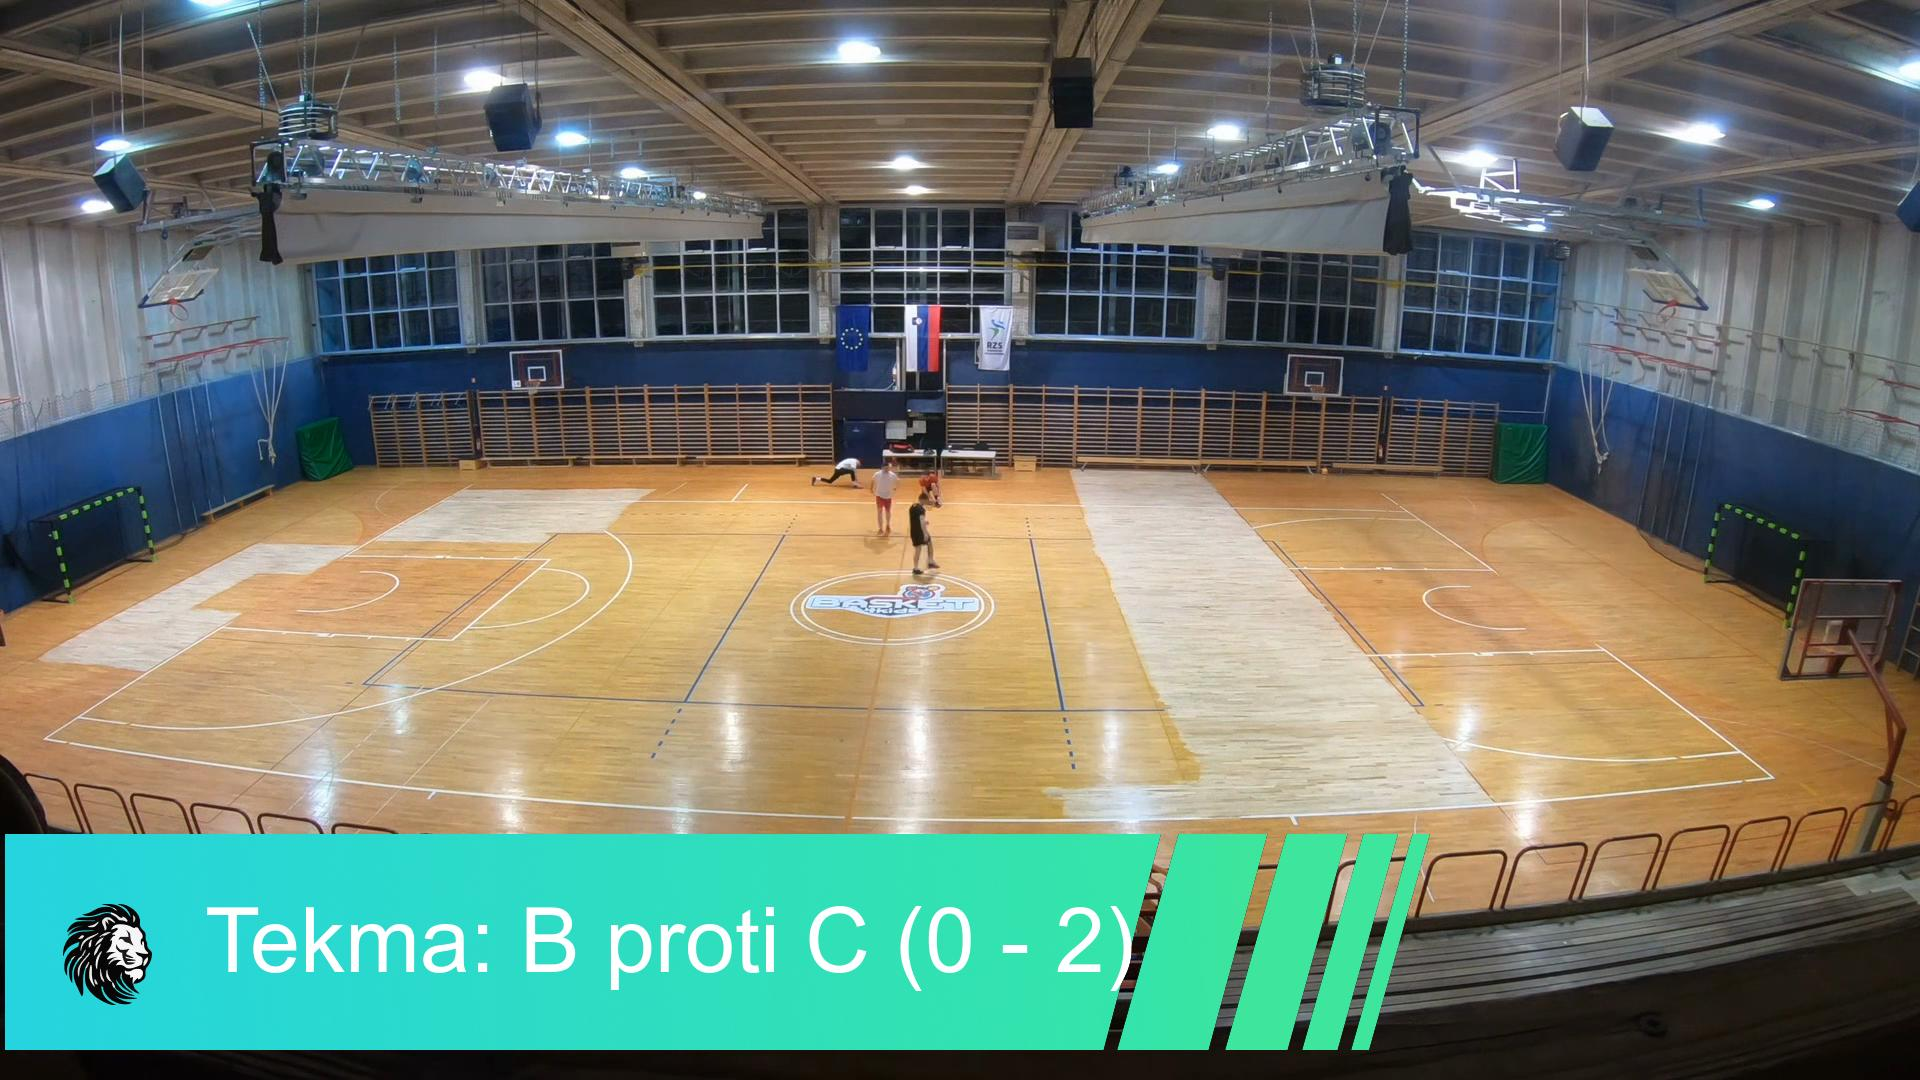
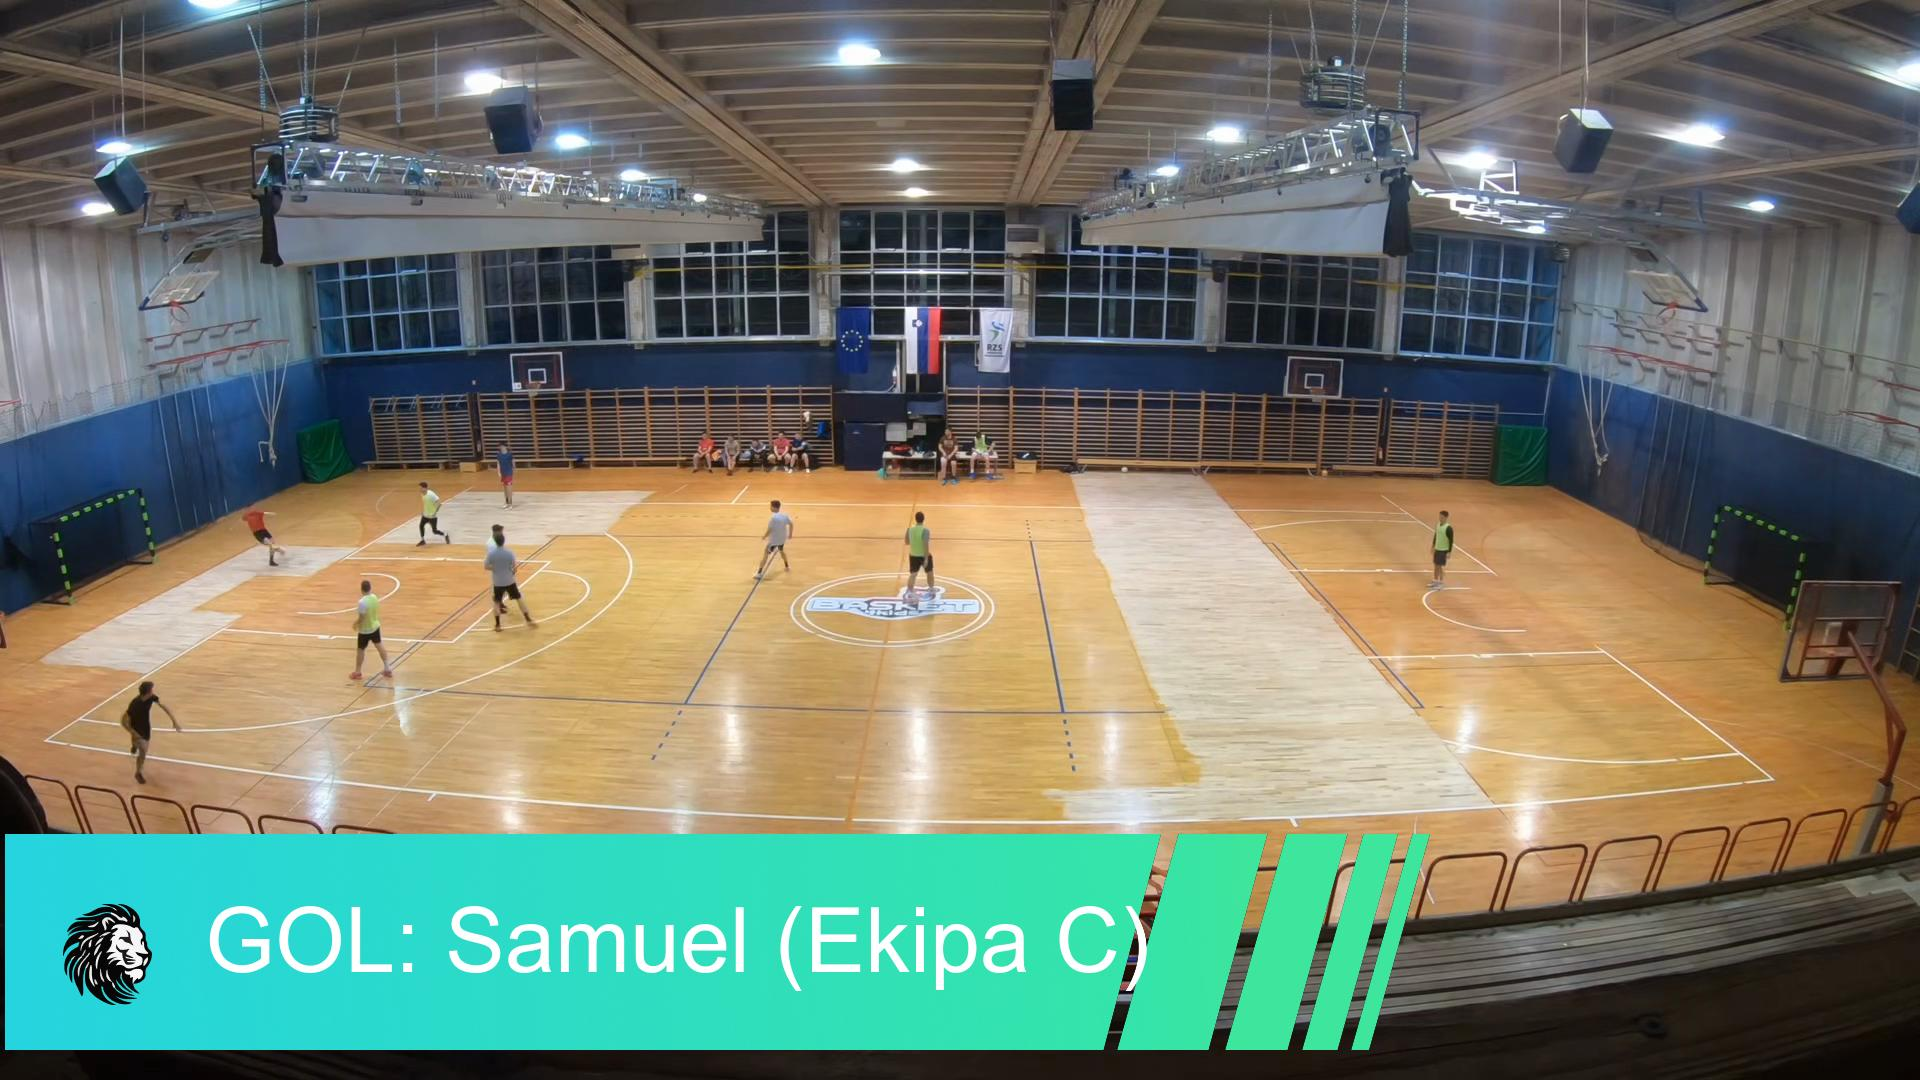
started working on teamsheet

diff --git a/app/main.py b/app/main.py
@@ -13,10 +13,65 @@ from datetime import datetime
 from utils.getMatchStats import calculate_match_scores,get_top_players
 
 
+
+
+def create_teamsheet(table_name: str, data, file_path: str):
+    # Font settings (adjust the path and size as needed)
+    try:
+        # Regular font for table content
+        font_regular = ImageFont.truetype("arial.ttf", 45)
+        font_regular = ImageFont.truetype("arial.ttf", 45)
+        # Larger font for the table name
+        font_large = ImageFont.truetype("arial.ttf", 96)  # Larger font size for the table name
+    except IOError:
+        # Fallback to default font if specific font file is not found
+        font_regular = ImageFont.load_default(55)
+        font_medium = ImageFont.load_default(70)
+        font_large = ImageFont.load_default(120)
+    
+    # Enhanced layout settings
+    image_width = 1600
+    row_height = 130  # Increased row height for better readability
+    header_height = 180  # Increased header height for emphasis
+    column_padding = 70  # Padding for columns
+    image_height = header_height + row_height * (len(data) + 1)  # +1 for the header row
+    
+    # Create an image with white background
+    image = Image.new('RGB', (image_width, image_height), 'white')
+    draw = ImageDraw.Draw(image)
+    
+    # Draw table header
+    draw.text((10, 10), table_name, fill="black", font=font_large)
+    # Draw column titles
+    # draw.text((10, header_height - 25), "Mesto", fill="black", font=font_regular)
+    draw.text((60, header_height), "Ime", fill="black", font=font_medium)
+    
+    # Draw horizontal line after the header
+    draw.line((0, header_height, image_width, header_height), fill="black", width=4)
+    
+    # Draw each top player row
+    for i, player in enumerate(data, start=1):
+        y_position = header_height + row_height * i
+        # Draw horizontal line after each row
+        draw.line((0, y_position, image_width, y_position), fill="gray", width=1)
+        # Rank
+        draw.text((10, y_position + 5), str(i), fill="black", font=font_regular)
+        # Player Name
+        draw.text((60, y_position + 5), player.name, fill="black", font=font_regular)
+        # Score/Count
+
+    
+    # Save the image
+    image.save(f"app/assets/{table_name}-{file_path}.png")
+
+
+
+
 def create_table_image(table_name: str, data: List[TopPlayer], file_path: str):
     # Font settings (adjust the path and size as needed)
     try:
         # Regular font for table content
+        font_regular = ImageFont.truetype("arial.ttf", 45)
         font_regular = ImageFont.truetype("arial.ttf", 45)
         # Larger font for the table name
         font_large = ImageFont.truetype("arial.ttf", 96)  # Larger font size for the table name
@@ -144,7 +199,7 @@ def add_premier_league_style_banner(clip, text):
     # Set the duration for the final clip
     return final_clip.set_duration(clip.duration)
 
-def make_highlights_reel(source_file_name,highlights:List[FootballEvent],scores):
+def make_highlights_reel(top_scorer_name,top_opportunities,source_file_name,highlights:List[FootballEvent],scores,highlight_type):
     # Load your video
     video = VideoFileClip(f"app/source/{source_file_name}.mp4")
 
@@ -160,10 +215,10 @@ def make_highlights_reel(source_file_name,highlights:List[FootballEvent],scores)
     clips = []
 
     intro_clip = video.subclip(20, 30)
-    clip_top_scorers = add_image_to_clip(intro_clip, f"Naj strelec-{source_file_name}")
+    clip_top_scorers = add_image_to_clip(intro_clip, f"{top_scorer_name}-{source_file_name}")
 
     intro_second_clip = video.subclip(40, 50)
-    clip_top_opps = add_image_to_clip(intro_second_clip, f"Največ priložnosti-{source_file_name}")
+    clip_top_opps = add_image_to_clip(intro_second_clip, f"{top_opportunities}-{source_file_name}")
     
     clips.append(clip_top_scorers)
     clips.append(clip_top_opps)
@@ -171,6 +226,9 @@ def make_highlights_reel(source_file_name,highlights:List[FootballEvent],scores)
     Image.fromarray(frame).save("preview.jpg")
 
     for index, highlight in enumerate(highlights):
+        if highlight_type == "goals":
+            if highlight["type"] == "Priložnost":
+                continue
         text_commentary = highlight.get("commentary")
         timestamp = highlight['timestamp']
         event_type = highlight["type"]
@@ -188,8 +246,8 @@ def make_highlights_reel(source_file_name,highlights:List[FootballEvent],scores)
         clip = video.subclip(start, end)
 
         if event_type == "Match Start":
-            match,teamOneGoals,teamTwoGoals = list(filter(lambda x:x["match"]==game,scores))[0].values()
-            overlay_text = f"Tekma: {player_name} proti {team} ({teamOneGoals} - {teamTwoGoals})"
+            game,teamOneGoals,teamTwoGoals = list(filter(lambda x:x["game"]==game,scores))[0].values()
+            overlay_text = f"Tekma: {player_name} proti {team} ({teamOneGoals}:{teamTwoGoals})"
         else:
             overlay_text = f"{event_type}: {player_name} (Ekipa {team})"
 
@@ -210,26 +268,26 @@ def make_highlights_reel(source_file_name,highlights:List[FootballEvent],scores)
         final_clips.append(clip.crossfadein(3))
     final_video = concatenate_videoclips(final_clips, padding=-custom_padding, method="chain")
 
-    final_video_duration = final_video.duration
+    # final_video_duration = final_video.duration
 
-    background_audio = AudioFileClip("app/assets/stadion-sound.mp3")
-    loop_count = int(final_video_duration / background_audio.duration) + 1
+    # background_audio = AudioFileClip("app/assets/stadion-sound.mp3")
+    # loop_count = int(final_video_duration / background_audio.duration) + 1
     
-    background_audio = background_audio.fx(volumex, 0.02)
+    # background_audio = background_audio.fx(volumex, 0.02)
     
-    extended_background_audio = concatenate_audioclips([background_audio] * loop_count)
-    extended_background_audio = extended_background_audio.set_duration(final_video_duration)
+    # extended_background_audio = concatenate_audioclips([background_audio] * loop_count)
+    # extended_background_audio = extended_background_audio.set_duration(final_video_duration)
 
-    final_audio = CompositeAudioClip([final_video.audio, extended_background_audio])
+    final_audio = CompositeAudioClip([final_video.audio]) #extended_background_audio
     final_video = final_video.set_audio(final_audio)
 
     # Write the result to a file
     final_video.write_videofile(
-    f"app/highlights/{source_file_name}-{datetime.now().strftime('%H-%M')}.mp4", 
+    f"app/highlights/{source_file_name}-{highlight_type}-{datetime.now().strftime('%H-%M')}.mp4", 
         codec="libx265", 
         fps=24, 
         ffmpeg_params=['-vcodec', 'hevc_videotoolbox', '-tag:v', 'hvc1', '-quality', '54', 
-                    '-acodec', 'aac', '-b:a', '128k']
+                    '-acodec', 'aac', '-b:a', '64k']
     )
 
 def prepare_timestamp(file_path):
@@ -268,7 +326,11 @@ if __name__ == "__main__":
     timestamps = prepare_timestamp(file_path)
     scores = calculate_match_scores(timestamps)
     top_goal_scorers, top_opportunity_creators = get_top_players(timestamps)
-    create_table_image("Streleci",top_goal_scorers,file_path)
-    create_table_image("Priloznosti",top_opportunity_creators,file_path)
-    make_highlights_reel(file_path,timestamps,scores)
+    top_scorer_name = "Strelci"
+    top_opportunities = "Priloznosti"
+    create_table_image(top_scorer_name,top_goal_scorers,file_path)
+    create_table_image(top_opportunities,top_opportunity_creators,file_path)
+    highlight_types = ["goals","all"]
+    for highlight_type in highlight_types:
+        make_highlights_reel(top_scorer_name,top_opportunities,file_path,timestamps,scores,highlight_type)
     # tts("Hello how are you today","asdas")

diff --git a/app/utils/getMatchStats.py b/app/utils/getMatchStats.py
@@ -16,28 +16,37 @@ def get_top_players(timestamps: List[FootballEvent]) -> Tuple[List[TopPlayer], L
 
     return top_goal_scorers, top_opportunity_creators
 
-def calculate_match_scores(data: List[dict]) -> List[dict]:
-    # Finding match start indices and game numbers
-    match_starts = [(index, event['game']) for index, event in enumerate(data) if event['type'] == 'Match Start']
-    match_starts.append((len(data), None))  # Ensure the last match is included
+def calculate_match_scores(data: List[FootballEvent]):
+    # Initialize a list to hold the scores for each match
+    df = pd.DataFrame(data)
 
-    scores = []
+    # Filter for Goal events
+    goals_df = df[df['type'] == 'GOL']
 
-    for i in range(len(match_starts) - 1):
-        start, end = match_starts[i][0], match_starts[i + 1][0]
-        game_number = match_starts[i][1]
-        match_data = data[start:end]
-        
-        # Tally goals by team
-        team_goals = {}
-        for event in match_data:
-            if event['type'] == 'GOL':
-                team_goals[event['team']] = team_goals.get(event['team'], 0) + 1
+    # Count goals by game and team
+    goal_counts = goals_df.groupby(['game', 'team']).size().reset_index(name='goals')
+    final_structure = []
 
-        # Initialize goals to 0 for each team
-        team_one_goals = team_goals.get('A', 0)
-        team_two_goals = team_goals.get('B', 0)
+    # Iterate over each game in goal_counts
+    for game in goal_counts['game'].unique():
+        # Extract rows for the current game
+        game_goals = goal_counts[goal_counts['game'] == game]
 
-        scores.append({'match': game_number, 'teamOneGoals': team_one_goals, 'teamTwoGoals': team_two_goals})
+        # Initialize goals for both teams to 0
+        teamOneGoals = 0
+        teamTwoGoals = 0
 
-    return scores
+        # Assign goals to team one and team two based on the order they appear in the DataFrame
+        if len(game_goals) > 0:
+            teamOneGoals = game_goals.iloc[0]['goals']
+        if len(game_goals) > 1:
+            teamTwoGoals = game_goals.iloc[1]['goals']
+
+        # Append the structured data for the current game to the final_structure list
+        final_structure.append({
+            'game': game,
+            'teamOneGoals': teamOneGoals,
+            'teamTwoGoals': teamTwoGoals
+        })
+
+    return final_structure
